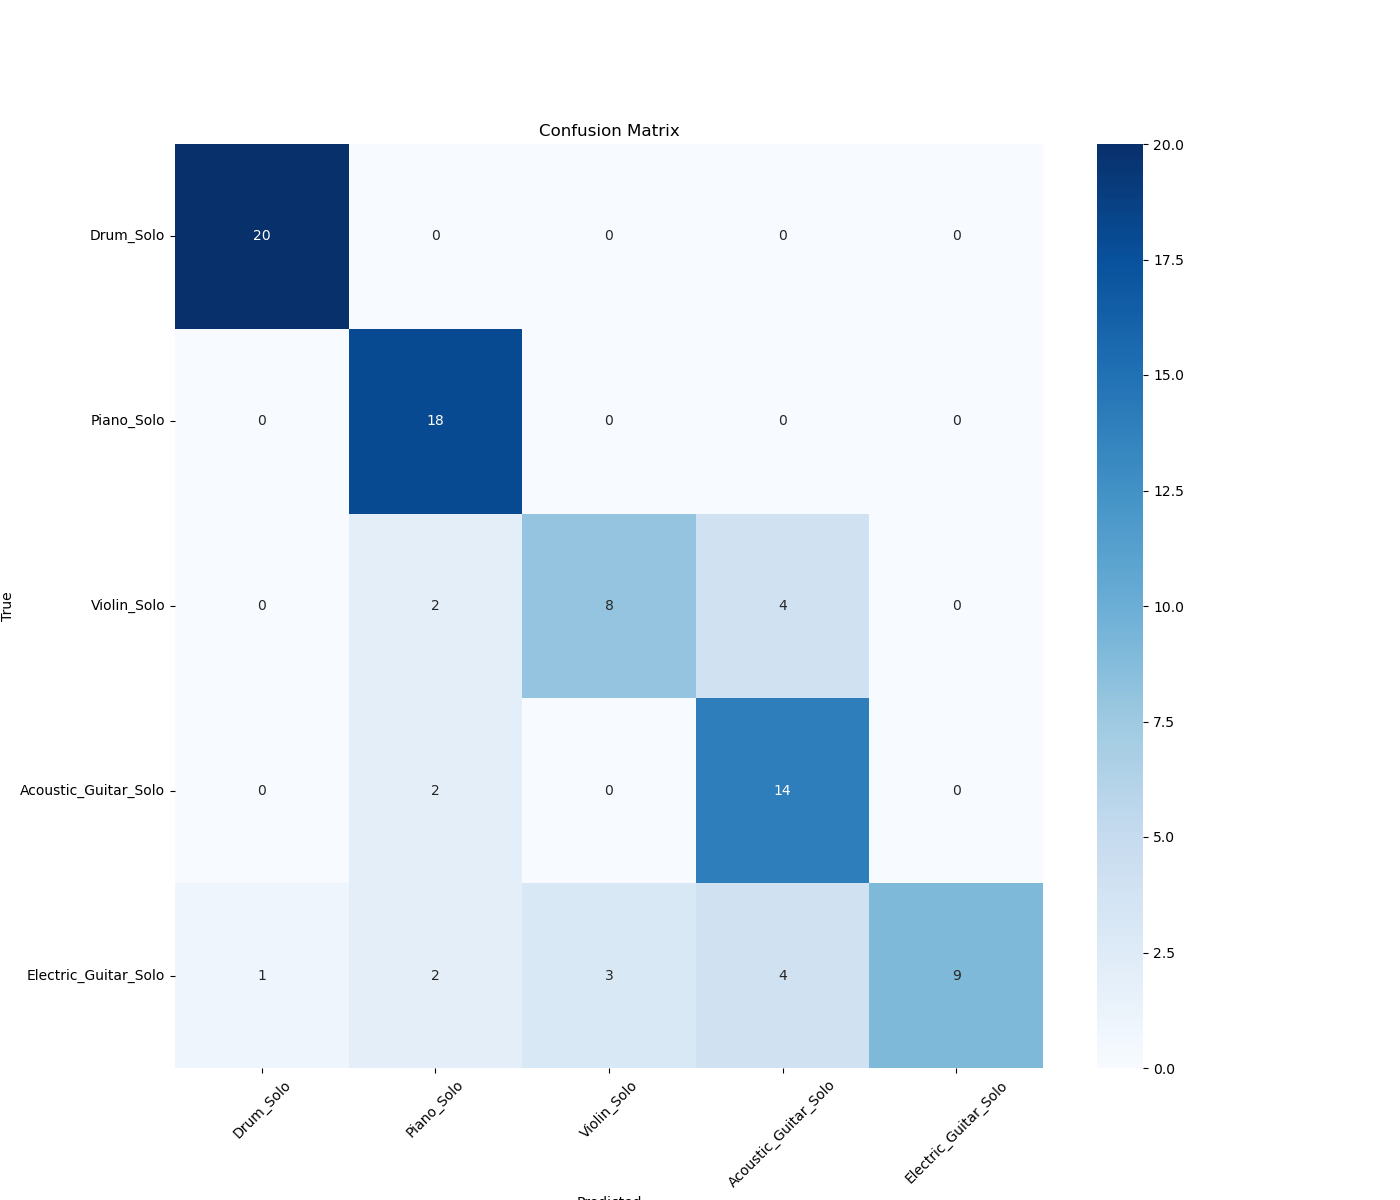
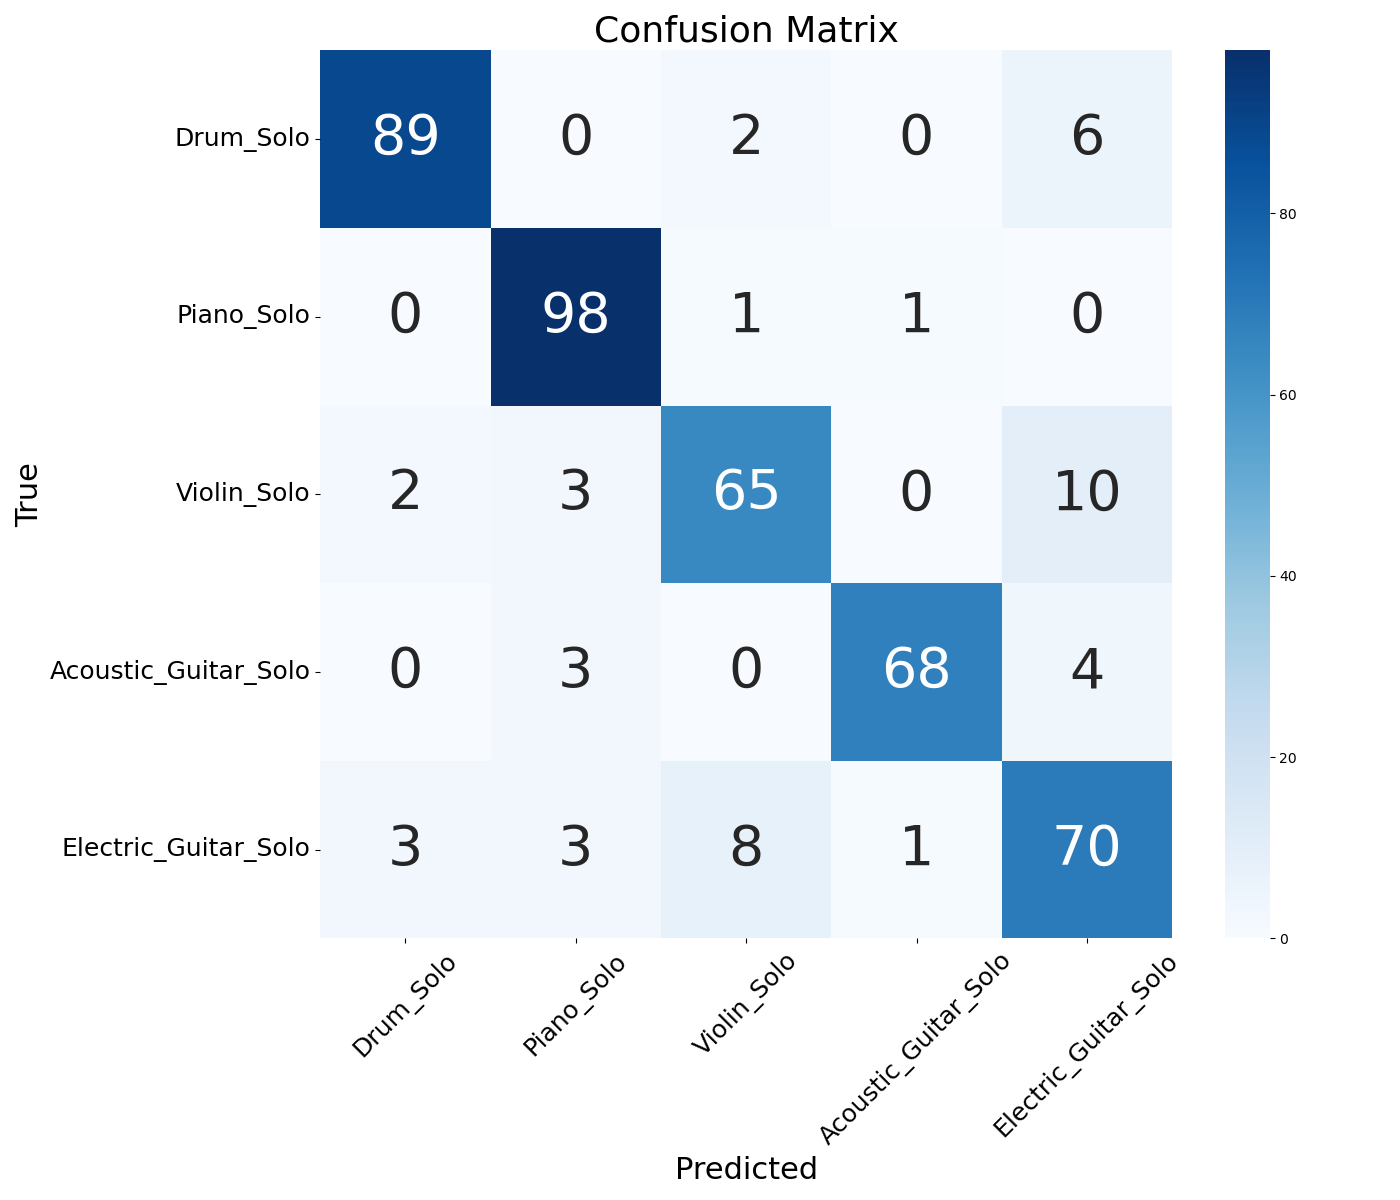
fix CNN

diff --git a/hw1/CNN.py b/hw1/CNN.py
@@ -11,7 +11,6 @@ import seaborn as sns
 from sklearn.model_selection import KFold
 from sklearn.metrics import confusion_matrix, accuracy_score
 from torch.utils.data import Dataset, DataLoader, Subset
-from torchvision import transforms
 
 # Set device to GPU
 device = torch.device("cuda" if torch.cuda.is_available() else "cpu")
@@ -66,16 +65,15 @@ class AudioDataset(Dataset):
         print(f"Dataset loaded: {len(self.data)} samples")
 
         # Define transformation for input data
-        self.transform = transforms.Compose([
-            transforms.ToTensor(),
-            transforms.Normalize(mean=[0.5], std=[0.5])
-        ])
+        # Processed directly in __getitem__ to avoid torchvision dependency
 
     def __len__(self):
         return len(self.data)
 
     def __getitem__(self, idx):
-        mel_spec = self.transform(self.data[idx])  # Apply transformation
+        # Apply transformation: equivalent to ToTensor() + Normalize(mean=[0.5], std=[0.5])
+        mel_spec = torch.tensor(self.data[idx], dtype=torch.float32).unsqueeze(0)
+        mel_spec = (mel_spec - 0.5) / 0.5
         label = torch.tensor(self.labels[idx], dtype=torch.long)
         return mel_spec, label
 
@@ -110,13 +108,15 @@ def plot_confusion_matrix(y_true, y_pred, class_names):
     # Plots a confusion matrix for predictions.
     cm = confusion_matrix(y_true, y_pred)
     plt.figure(figsize=(14, 12))
-    sns.heatmap(cm, annot=True, fmt='d', cmap='Blues', xticklabels=class_names, yticklabels=class_names)
-    plt.xlabel('Predicted')
-    plt.ylabel('True')
-    plt.title('Confusion Matrix')
-    plt.xticks(rotation=45)
-    plt.yticks(rotation=0)
+    sns.heatmap(cm, annot=True, fmt='d', cmap='Blues', annot_kws={"size": 40}, xticklabels=class_names, yticklabels=class_names)
+    plt.xlabel('Predicted', fontsize=22)
+    plt.ylabel('True', fontsize=22)
+    plt.title('Confusion Matrix', fontsize=26)
+    plt.xticks(rotation=45, fontsize=18)
+    plt.yticks(rotation=0, fontsize=18)
+    plt.tight_layout()
     plt.savefig('confusion_matrix.png')
+    plt.close()
 
 if __name__ == "__main__":
     # Dataset and class labels
@@ -127,6 +127,8 @@ if __name__ == "__main__":
     kf = KFold(n_splits=KFOLDS, shuffle=True, random_state=123)
 
     # Cross validation
+    all_y_true = []
+    all_y_pred = []
     for fold, (train_idx, val_idx) in enumerate(kf.split(dataset)):
         print(f"Fold {fold+1}/{KFOLDS}")
         train_subset = Subset(dataset, train_idx)
@@ -164,6 +166,8 @@ if __name__ == "__main__":
         acc = accuracy_score(y_true, y_pred)
         accs.append(acc)
         print(f"Fold {fold+1} Accuracy: {acc:.4f}")
-        plot_confusion_matrix(y_true, y_pred, class_names)
+        all_y_true.extend(y_true)
+        all_y_pred.extend(y_pred)
     
     print(f"Total Accuracy: {np.mean(accs):.4f}")
+    plot_confusion_matrix(all_y_true, all_y_pred, class_names)
